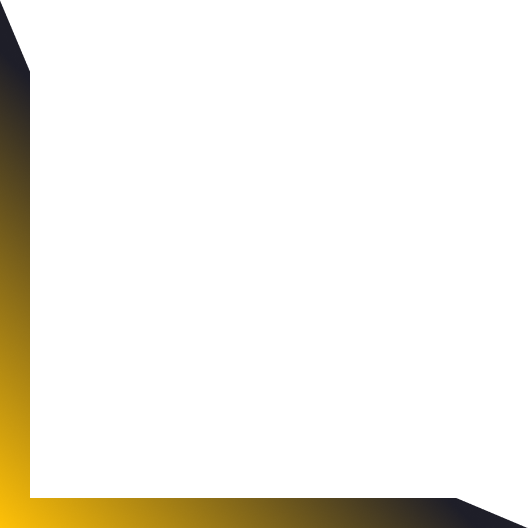
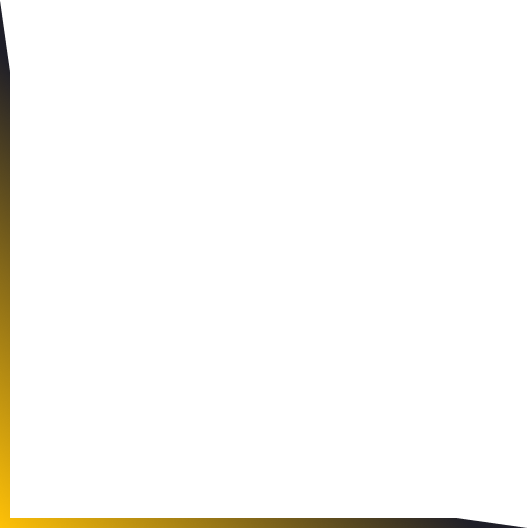
Name changed and excessive img removed

Changed region(s): [[0.0, 0.0, 1.0, 1.0]]

diff --git a/index.html b/index.html
@@ -56,20 +56,20 @@
             </div>
 
             <div id="sidePanelFooter">
-                <a href=""><img src="/images/discord.png" alt="Discord icon"></a>
-                <a href=""><img id="facebookIcon" src="/images/facebook.png" alt="Facebook icon"></a>
-                <a href=""><img src="/images/git.png" alt="Github icon"></a>
+                <a target="_blank" href=""><img src="/images/discord.png" alt="Discord icon"></a>
+                <a target="_blank" href=""><img id="facebookIcon" src="/images/facebook.png" alt="Facebook icon"></a>
+                <a target="_blank" href="https://github.com/martindyr"><img src="/images/git.png" alt="Github icon"></a>
             </div>
         </div>
         <div id="mainPanel">
             <div id="mainPanelBannerContainer">
-                <img id="BLcorner" src="/images/Union.png" alt="Yellow-faded corner border">
+                <img id="BLcorner" src="/images/BLcorner.png" alt="Yellow-faded corner border">
                 <div id="mainPanelBannerText">
                     <p>Welcome,</p>
                     <h1>I'm Martin Dyrset</h1>
                     <p>I have been developing for 2 years, and this is my current portfolio</p>
                 </div>
-                <img id="TRcorner" src="/images/Union-1.png" alt="Yellow-faded corner border">
+                <img id="TRcorner" src="/images/TRcorner.png" alt="Yellow-faded corner border">
             </div>
 
             <h2>My Projects</h2>
